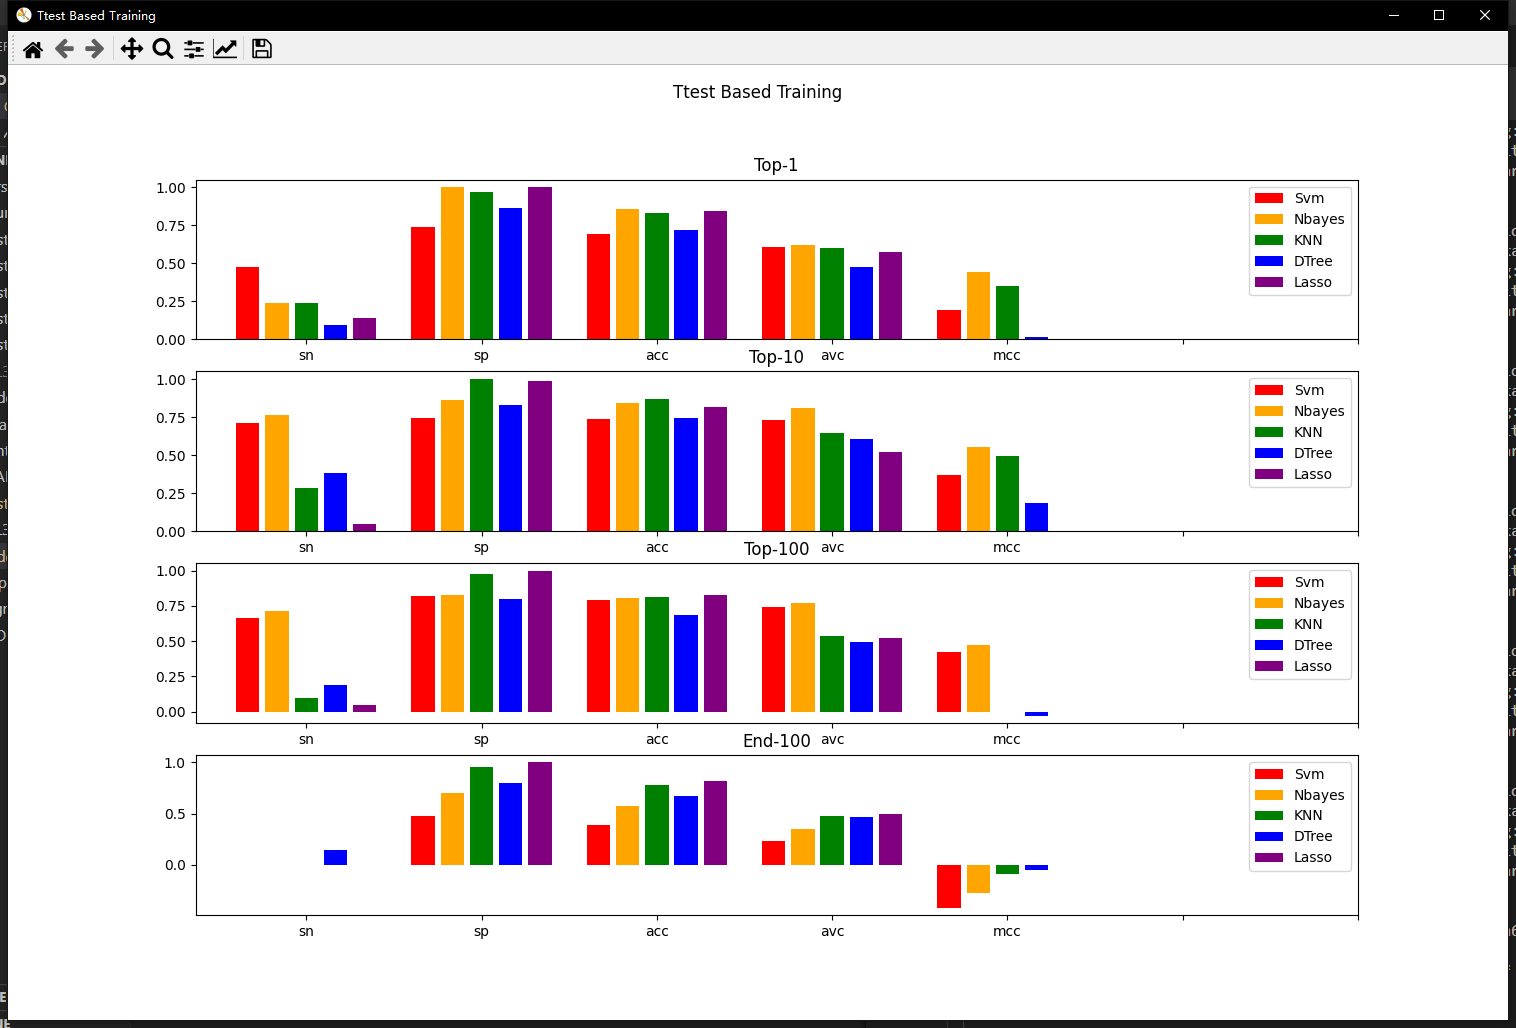
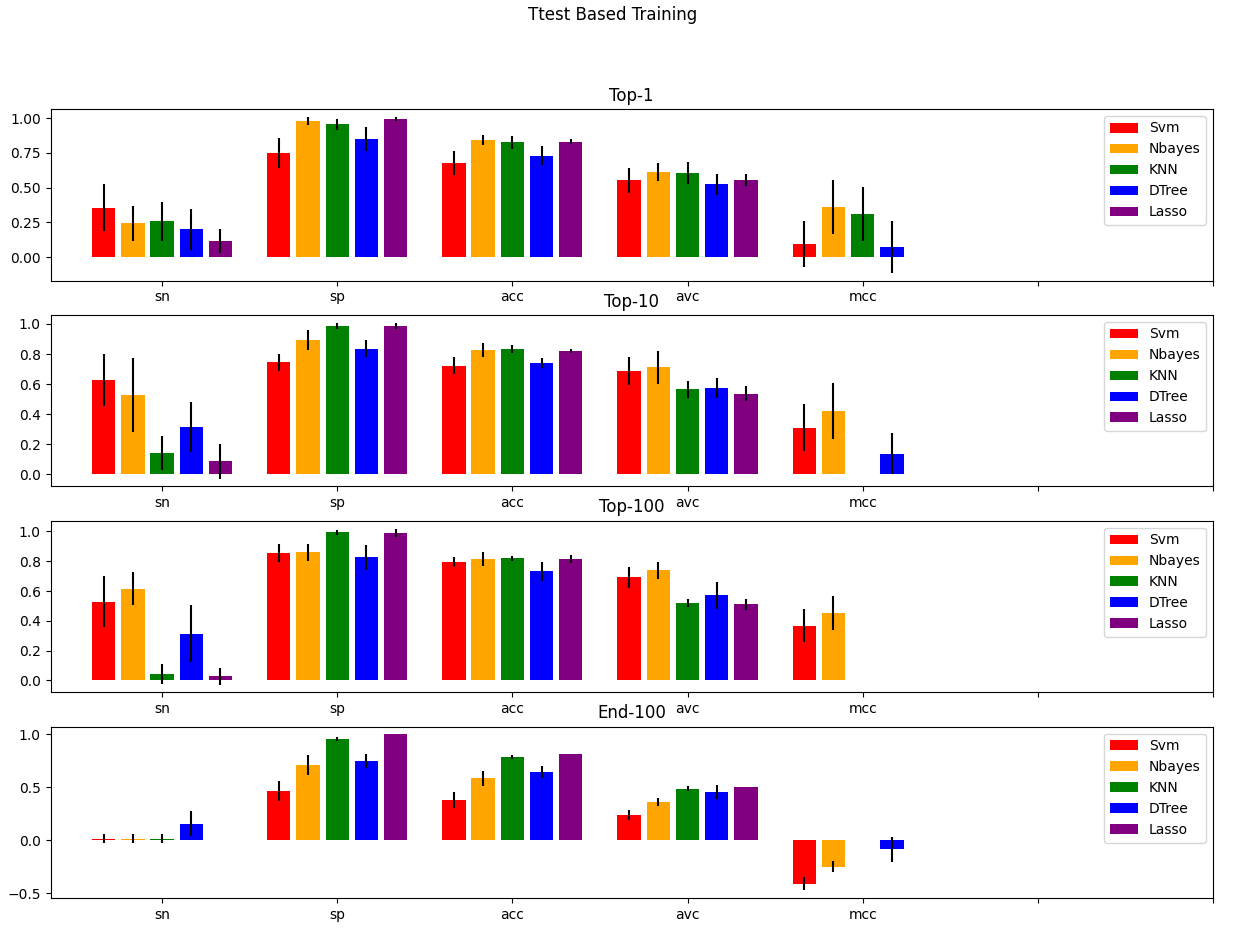
+Q6 bonus 1

diff --git a/Question6/Code.py b/Question6/Code.py
@@ -14,7 +14,7 @@ import matplotlib.pyplot as plt
 import pandas as pd
 import os
 
-REPEAT    = 3
+REPEAT    = 10
 TEST_RATE = 0.3
 
 # check the size of data block
@@ -127,8 +127,16 @@ def avg(lis: list):
     # lis = [x for x in lis if not isnan(x)]
     return sum(lis) / len(lis)
 
-# sn, sp, acc, avc, mcc = fRunAverageSvm(xData, yData, trainTestRate, roundCnt)
-def fRunAverage(fRunFunc, xData: np.ndarray, yData: np.ndarray, testRate: float, roundCnt: int):
+def std(lis: list):
+    assert type(lis) == list
+    n    = len(lis)
+    mean = sum(lis) / n
+    var  = sum([(x - mean) ** 2 for x in lis]) / n
+    std  = sqrt(var)
+    return std
+
+# (sn, sp, acc, avc, mcc), (snStd, spStd, accStd, avcStd, mccStd) = fRunAverageAndStd(xData, yData, trainTestRate, roundCnt)
+def fRunAverageAndStd(fRunFunc, xData: np.ndarray, yData: np.ndarray, testRate: float, roundCnt: int):
     assert fRunFunc in RUN_FUNCTION_LIST
     assert type(roundCnt) == int and roundCnt >= 1
     assert 0 < testRate and testRate < 1 # testRate = testSize / (trainSize + testSize)
@@ -154,7 +162,8 @@ def fRunAverage(fRunFunc, xData: np.ndarray, yData: np.ndarray, testRate: float,
         avcArr.append(avc)
         mccArr.append(mcc)
     ansAvg = [avg(snArr), avg(spArr), avg(accArr), avg(avcArr), avg(mccArr)]
-    return ansAvg
+    ansStd = [std(snArr), std(spArr), std(accArr), std(avcArr), std(mccArr)]
+    return ansAvg, ansStd
 
 def __fGetFuncName(func):
     return str(func).split()[1] # get function name
@@ -174,14 +183,17 @@ def fPlot25bars(Plt, statData: dict):
         assert statData.get(__fGetFuncName(func)) is not None
         for dataName in DATA_NAME_LIST:
             assert statData[__fGetFuncName(func)].get(dataName) is not None
-    datas = [[], [], [], [], []]
+    datas    = [[], [], [], [], []]
+    dataStds = [[], [], [], [], []]
     for i in range(5):
         for j in range(5):
             datas[i].append(
                 statData[__fGetFuncName(RUN_FUNCTION_LIST[i])][DATA_NAME_LIST[j]])
+            dataStds[i].append(
+                statData[__fGetFuncName(RUN_FUNCTION_LIST[i])][DATA_NAME_LIST[j] + "Std"])
         datas[i] = np.array(datas[i])
     for i in range(5):
-        Plt.bar(np.arange(5) * 6 + i, datas[i], 
+        Plt.bar(np.arange(5) * 6 + i, datas[i], yerr=dataStds[i],
                 color=__fGetColorNameById(i), 
                 label=__fGetFuncName(RUN_FUNCTION_LIST[i])[4:])
     Plt.legend()
@@ -195,11 +207,16 @@ def fRunOnSingleData(axs, xData, yData) -> None:
     assert xData.shape[0] == len(yData)
     def fTestRun(fRunFunc, xData, yData) -> None:
         assert fRunFunc in RUN_FUNCTION_LIST
-        sn, sp, acc, avc, mcc = fRunAverage(fRunFunc, 
-                                            xData, yData, TEST_RATE, REPEAT)
+        (sn, sp, acc, avc, mcc), (snStd, spStd, accStd, avcStd, mccStd) = fRunAverageAndStd(fRunFunc, 
+                                                                                            xData, yData, TEST_RATE, REPEAT)
         return {
             "func": __fGetFuncName(fRunFunc), 
-            "sn": sn, "sp": sp, "acc": acc, "avc": avc, "mcc": mcc
+            "sn": sn, "sp": sp, "acc": acc, "avc": avc, "mcc": mcc,
+            "snStd" :  snStd,
+            "spStd" :  spStd,
+            "accStd": accStd,
+            "avcStd": avcStd,
+            "mccStd": mccStd
         }
     statData = {}
     for fRunFunc in RUN_FUNCTION_LIST:
@@ -279,7 +296,7 @@ def fMainPlotFunction(filename):
         fDrawByFeatureIdSet(axs[i], topFeatureId, L[i], R[i], tClass, tMatrix)
         axs[i].set_title(TITLE[i])
     figName = "Ttest Based Training"
-    plt.gcf().canvas.set_window_title(figName)
+    # plt.gcf().canvas.set_window_title(figName)
     fig.suptitle(figName)
     plt.show()
 

diff --git a/Question7/ProjectData/CODE/PlotHistogramDemo.py b/Question7/ProjectData/CODE/PlotHistogramDemo.py
@@ -11,14 +11,14 @@ ALPHA = 0.3
 
 if __name__ == "__main__":
     rootDir  = getRootFilePath()
-    dataFile = os.path.join(rootDir, "DATA/MFCC_VOCAL_ALPHA.txt") 
+    dataFile = os.path.join(rootDir, "DATA/MFCC_ALPHA.txt") 
     arrPos = []                 # Pos 
     arrNeg = []                 # Neg
     arrAll = []                 # All
     tSample, tClass, tFeatures = dataLoader(dataFile)
     for indx in range(len(tClass)):
         dataNow = tFeatures[indx].reshape((13, 87))
-        maxNow  = np.max(dataNow)
+        maxNow  = np.max(dataNow[3 :])
         if tClass[indx] == "POS":
             arrPos.append(maxNow)
         else:
@@ -35,7 +35,7 @@ if __name__ == "__main__":
     plt.figure(figsize=(12, 3))
     plt.hist(npPos, bins=BINS_COUNT, alpha=ALPHA, label="POS", color="red")
     plt.hist(npNeg, bins=BINS_COUNT, alpha=ALPHA, label="NEG", color="blue")
-    plt.hist(npAll, bins=BINS_COUNT, alpha=ALPHA, label="ALL", color="orange")
+    # plt.hist(npAll, bins=BINS_COUNT, alpha=ALPHA, label="ALL", color="orange")
     plt.legend(loc="upper right")
     plt.xlabel('Values')
     plt.ylabel('Frequency')

diff --git a/Question6/README.md b/Question6/README.md
@@ -26,7 +26,7 @@ These libraries are used for data manipulation, statistical analysis, and visual
 
 There is a function called `fMainPlotFunction`, which takes a filename as input and produces a plot with four subplots. The subplots show the performance of the models mentioned above on the top 1, top 10, top 100, and end 100 features.
 
-To use this function, you need to have a data matrix file in a specified format. The function `fLoadDataMatrix` is used to load the data matrix from the file. The function `fGetTopFeatures` is used to get the indices of the top features based on a T-test. In our program, we use `ALL3.txt` as our input. In the program, we use $30\%$ of the data as the training set and $70\%$ of the data as the test set. We repeat the experiments three times for each model and calculate the average performance metrics to finally plot a histogram.
+To use this function, you need to have a data matrix file in a specified format. The function `fLoadDataMatrix` is used to load the data matrix from the file. The function `fGetTopFeatures` is used to get the indices of the top features based on a T-test. In our program, we use `ALL3.txt` as our input. In the program, we use $30\%$ of the data as the training set and $70\%$ of the data as the test set. We repeat the experiments ten times for each model and calculate the average performance metrics to finally plot a histogram.
 
 To call the `fMainPlotFunction` function, you can use the following code:
 
